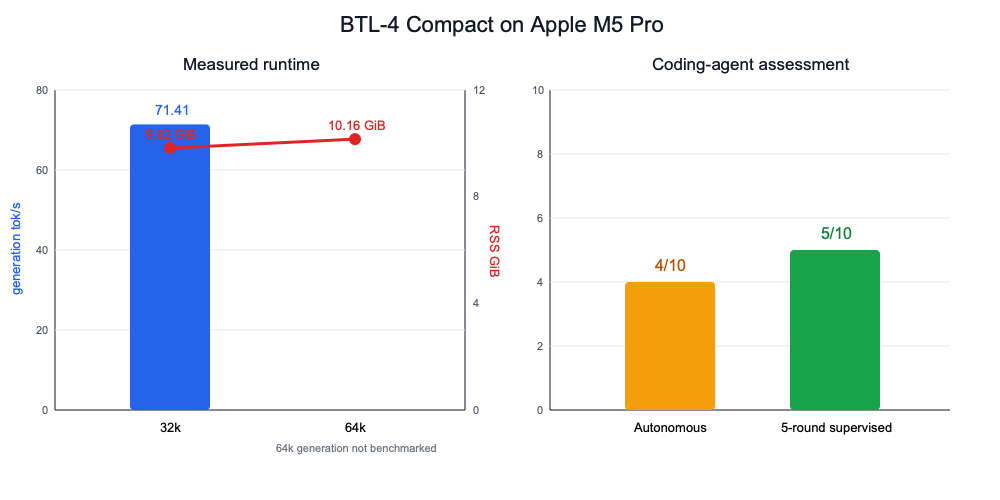
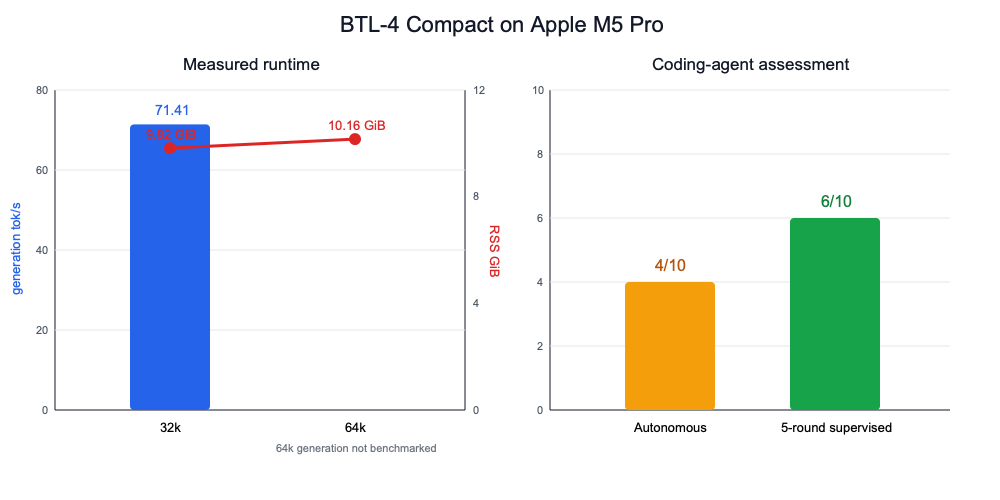
docs: revise BTL-4 supervised assessment

Changed region(s): [[0.775, 0.39, 0.899, 0.51]]

diff --git a/README.md b/README.md
@@ -175,7 +175,7 @@ pi --provider local-workbench --model btl-4-compact
 
 On the M5 Pro, a 32k smoke test generated at **71.41 tok/s**, used about **9.82 GiB RSS** after loading, returned the requested exact response, and emitted a correct OpenAI-compatible tool call. At 65k, idle RSS was about **10.16 GiB** and peak observed RSS during the coding run was about **10.54 GiB**.
 
-The 65k direct-prompt agent completed a TypeScript project in 7.94 minutes without context compaction. Five supervised correction rounds made its mocked tests and TypeScript checks pass, but independent review still rejected the production path: face detection and ffmpeg trimming remained placeholders, command execution used a shell, and destination key construction was wrong. BTL-4 is promising as a fast supervised pair programmer, not a production-reliable autonomous agent; current assessment is **4/10 autonomous, 5/10 supervised**.
+The 65k direct-prompt agent completed a TypeScript project in 7.94 minutes without context compaction. Five supervised correction rounds made its mocked tests and TypeScript checks pass, but independent review still rejected the production path: face detection and ffmpeg trimming remained placeholders, command execution used a shell, and destination key construction was wrong. BTL-4 is promising as a fast supervised pair programmer, not a production-reliable autonomous agent; subjective assessment is **4/10 autonomous, 6/10 with five-round supervision**.
 
 ![BTL-4 Compact runtime and coding-agent assessment](results/plots/btl4_compact_summary.png)
 
